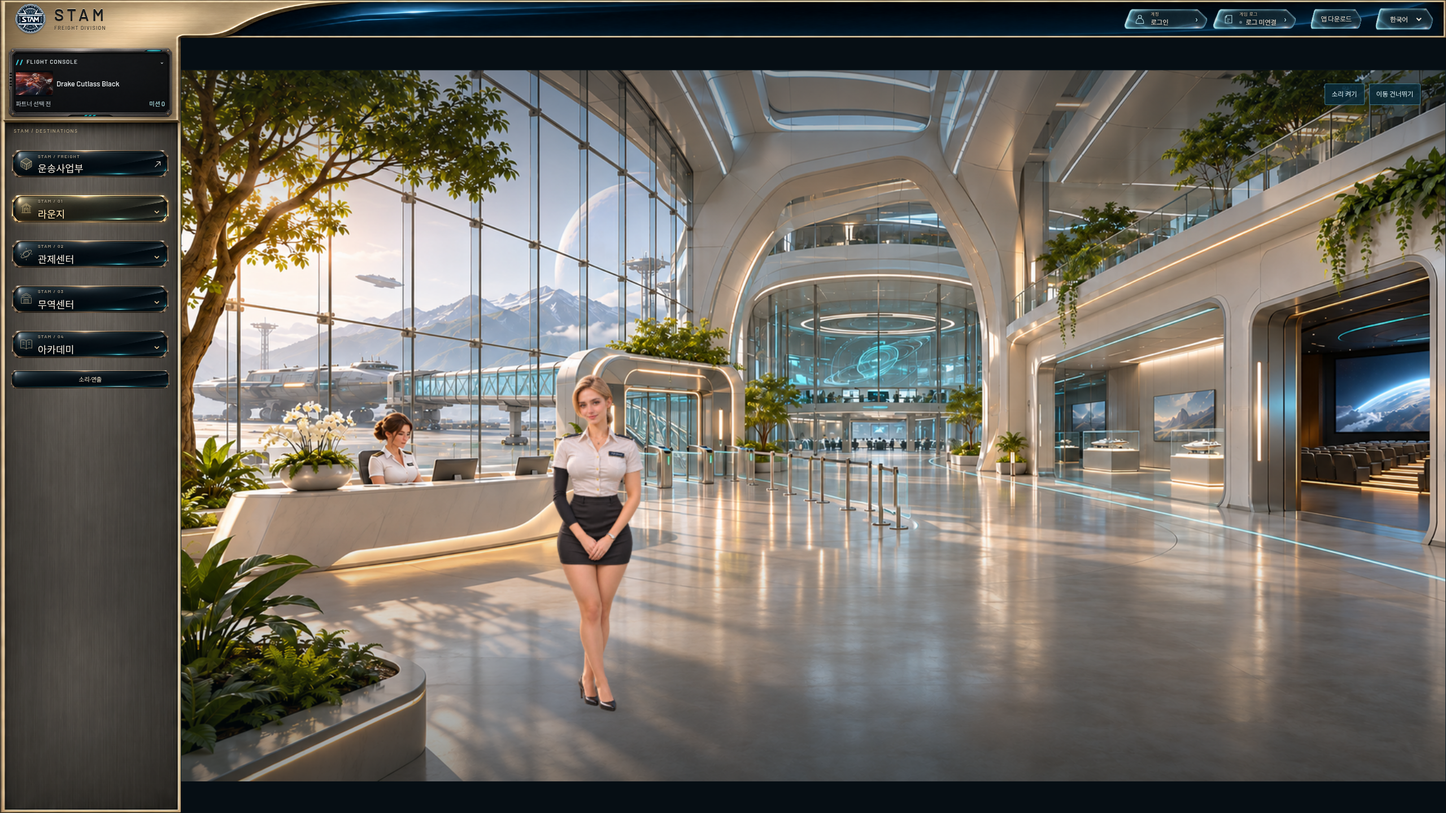
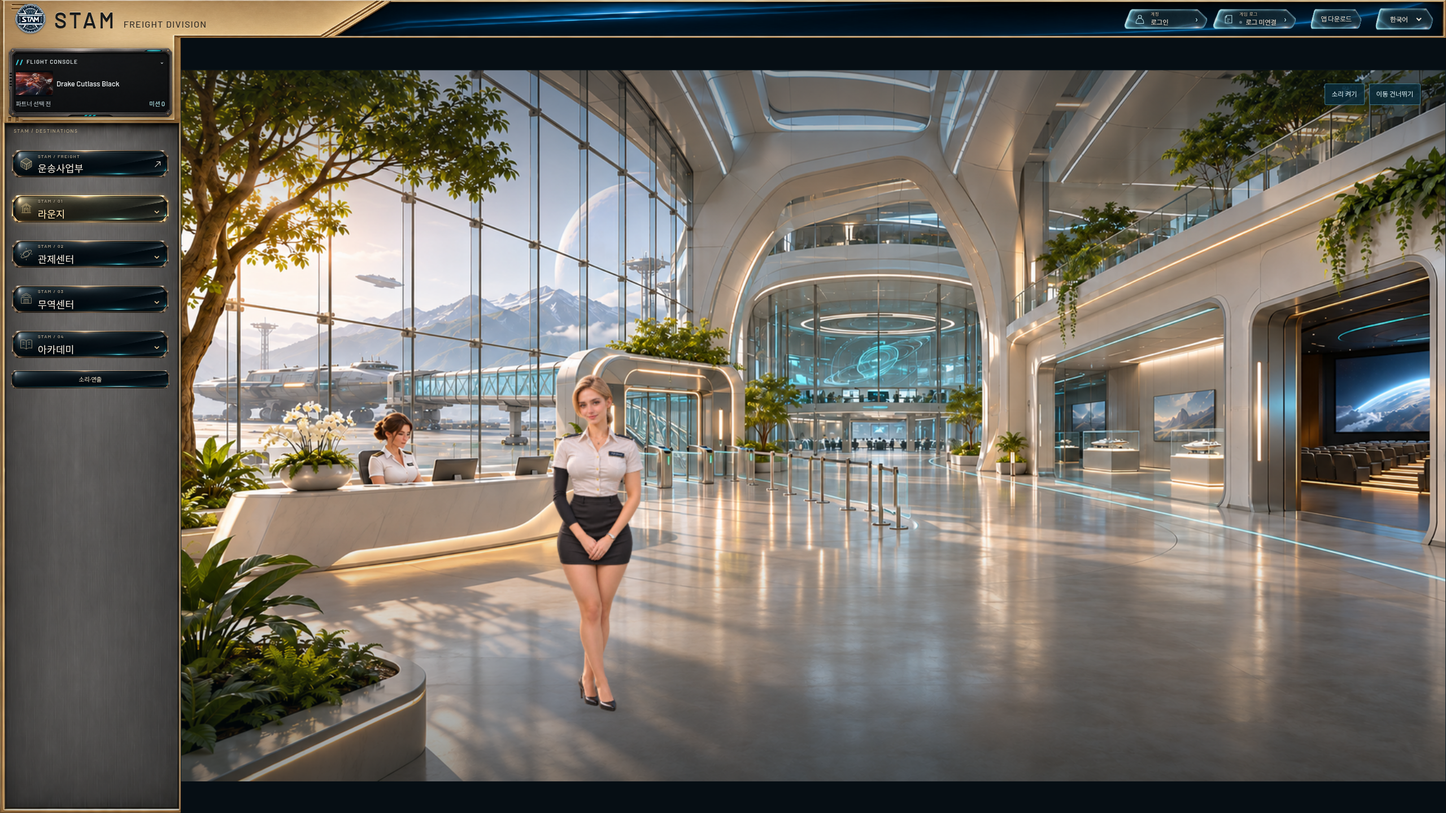
Extend champagne housing with straight machined edge and inline brand

diff --git a/apps/control-room/src/black-gold-shell.css b/apps/control-room/src/black-gold-shell.css
@@ -46,8 +46,8 @@
 .shell-material{position:absolute;inset:0;z-index:-1;pointer-events:none;overflow:hidden}
 .shell-piece{position:absolute;display:block;overflow:hidden}
 .shell-join{left:0;top:0;width:var(--shell-sidebar-width);height:67px}
-.shell-sweep{left:var(--shell-sidebar-width);top:0;width:320px;height:67px}
-.shell-top{left:calc(var(--shell-sidebar-width) + 320px);right:4px;top:0;width:calc(100% - var(--shell-sidebar-width) - 324px);height:67px}
+.shell-sweep{left:var(--shell-sidebar-width);top:0;width:400px;height:67px}
+.shell-top{left:calc(var(--shell-sidebar-width) + 400px);right:4px;top:0;width:calc(100% - var(--shell-sidebar-width) - 404px);height:67px}
 .shell-top-end{right:0;top:0;width:4px;height:67px}
 .shell-connector{left:0;top:67px;width:var(--shell-sidebar-width);height:var(--shell-connector-height,164px)}
 .shell-side{left:0;top:calc(67px + var(--shell-connector-height,164px));width:var(--shell-sidebar-width);height:max(0px,calc(100% - 73px - var(--shell-connector-height,164px)))}
@@ -56,8 +56,8 @@
 /* Live Barlow lettering stays sharp at any scale on the gold casting. */
 .space-experience .space-topbar .room-brand{gap:12px;text-decoration:none}
 .space-experience .space-topbar .brand-emblem{width:60px;height:60px;flex:none;filter:contrast(1.12) drop-shadow(0 1px 1px #0005)}
-.space-experience .space-topbar .brand-wordmark{font:500 29px/1 BarlowAirReview,SUIT,sans-serif;letter-spacing:.2em;color:#171a1c;text-shadow:0 -1px 0 #fff4d9b3,0 1px 0 #080b0e,0 2px 1px #33271c55}
-.space-experience .space-topbar .brand-wordmark small{margin-top:5px;font:500 9px/1.4 BarlowAirReview,SUIT,sans-serif;letter-spacing:.14em;color:#342b20;text-shadow:0 1px 0 #fff4d970}
+.space-experience .space-topbar .brand-wordmark{display:flex;align-items:baseline;gap:12px;white-space:nowrap;font:500 38px/1 BarlowAirReview,SUIT,sans-serif;letter-spacing:.12em;color:#171a1c;text-shadow:0 -1px 0 #fff4d9b3,0 1px 0 #080b0e,0 2px 1px #33271c55}
+.space-experience .space-topbar .brand-wordmark small{display:inline;margin-top:0;font:500 16px/1 BarlowAirReview,SUIT,sans-serif;letter-spacing:.08em;color:#342b20;text-shadow:0 1px 0 #fff4d970}
 .space-experience .space-main{grid-template-columns:var(--shell-sidebar-width) minmax(0,1fr)}
 .space-experience .space-sidebar{isolation:isolate;background:transparent;border:0;box-shadow:none;padding:16px 20px 18px}
 .space-sidebar:after{display:none}
@@ -77,8 +77,8 @@
  .space-experience>header.space-topbar{height:auto;padding:10px 12px;min-height:110px}
  .space-experience .space-topbar .room-brand{gap:8px}
  .space-experience .space-topbar .brand-emblem{width:40px;height:40px}
- .space-experience .space-topbar .brand-wordmark{font-size:22px;letter-spacing:.16em}
- .space-experience .space-topbar .brand-wordmark small{font-size:8px;letter-spacing:.08em;margin-top:4px}
+ .space-experience .space-topbar .brand-wordmark{font-size:27px;letter-spacing:.08em;gap:8px}
+ .space-experience .space-topbar .brand-wordmark small{font-size:10px;letter-spacing:.04em;margin-top:0}
  .space-experience .space-main{grid-template-columns:minmax(0,1fr)}
  .space-experience .space-overview{margin:0}
  .space-experience{padding:0;--shell-sidebar-width:clamp(248px,16.4vw,320px)}
@@ -86,13 +86,25 @@
  .shell-material{inset:0;mask-image:linear-gradient(to bottom,#000 96px,transparent 132px)}
  .shell-connector,.shell-side,.shell-side-end{display:none}
  .shell-piece{height:120px}
- .shell-join{width:150px}
- .shell-sweep{left:150px;width:110px}
- .shell-top{left:260px;right:4px;width:calc(100% - 264px)}
+ .shell-join{width:240px}
+ .shell-sweep{left:240px;width:110px}
+ .shell-top{left:350px;right:4px;width:max(0px,calc(100% - 354px))}
  .shell-top-end{width:4px}
  .space-sidebar :is(.space-group-button,.space-division-button){height:72px;min-height:72px}
  .space-sidebar :is(.space-group-button,.space-division-button) strong{font-size:17px}
  .space-sidebar .space-dock{background:#080f15;border:1px solid #c5ab7480;border-radius:0 0 14px 14px}
+}
+
+@media(min-width:761px) and (max-width:1000px){
+ .space-experience>header.space-topbar{padding-inline:12px;gap:12px}
+ .space-experience .space-topbar .room-brand{gap:8px}
+ .space-experience .space-topbar .brand-emblem{width:44px;height:44px}
+ .space-experience .space-topbar .brand-wordmark{font-size:30px;gap:8px;letter-spacing:.08em}
+ .space-experience .space-topbar .brand-wordmark small{font-size:12px;letter-spacing:.04em}
+ .space-experience .space-topbar .pilot-connections button{min-width:105px;padding-inline:8px;gap:5px}
+ .space-experience .space-topbar .space-download{padding-inline:8px}
+ .shell-sweep{width:200px}
+ .shell-top{left:calc(var(--shell-sidebar-width) + 200px);width:calc(100% - var(--shell-sidebar-width) - 204px)}
 }
 
 /* Guide playback occupies the same scene cell as the lounge, including while

diff --git a/apps/control-room/src/ShellMaterial.tsx b/apps/control-room/src/ShellMaterial.tsx
@@ -5,8 +5,8 @@ import accent from './assets/navigation/shell-gold-gunmetal.png';
  * The corner and edge heights stay fixed; the plain strips fill the existing
  * navigation area without setting the dimensions of the live scene.
  * A single casting spans the header and console surround. The header uses a
- * curved material boundary; the sidebar ends the housing in a straight step.
- * Curves stay in the chrome and never round or cover the scene aperture. */
+ * straight diagonal material boundary; the sidebar ends the housing in a straight step.
+ * The material stays in the chrome and never covers the scene aperture. */
 export function ShellMaterial(){
  const root=useRef<HTMLDivElement>(null);
  useLayoutEffect(()=>{
@@ -35,8 +35,8 @@ export function ShellMaterial(){
  },[]);
  const pieces=[
   ['join','0 0 216 102',accent],
-  ['sweep','216 0 384 102',accent],
-  ['top','600 0 930 102',accent],
+  ['sweep','216 0 504 102',accent],
+  ['top','720 0 810 102',accent],
   ['top-end','1530 0 6 102',accent],
   ['connector','0 102 216 300',accent],
   ['side','0 402 216 616',accent],

diff --git a/docs/cinematics/shell-layout-fix-20261118/HANDOFF.md b/docs/cinematics/shell-layout-fix-20261118/HANDOFF.md
@@ -4,21 +4,15 @@
 - 작업 브랜치: `cinematic/shell-layout-fix-20261118`.
 - 기능 담당이 최신 기능 변경을 보존하면서 통합한다. main·공통 인계 직접 병합/배포 없음.
 
-## 로고 가독성 후속
+## 최종 디자인 — 직선 사선·한 줄 브랜드·따뜻한 금색
 
-상단 원형 로고를 50→60px, STAM을 23→29px, FREIGHT DIVISION을 7→9px로 키웠다. 실제 텍스트에 Barlow500을 명시하고 STAM은 차콜 블랙과 얕은 돌출 그림자/상단 하이라이트, 부제는 흑갈색으로 표시한다. 글자를 이미지 자산으로 생성하지 않았고 원형 로고는 기존 자산에 대비 보정을 적용했다. 모바일은 각각40/22/8px. 상단바 높이와 본문/가이드 좌표는 유지한다.
+금색 이름판을 오른쪽으로 연장하고 곡선 대신 직선 사선으로 바꿨다. `STAM FREIGHT DIVISION`은 한 줄이며 STAM38px, 부제16px의 Barlow500 실제 텍스트다. 원형 로고60px·검은 입체 글씨를 유지했다. 761–1000px에서는44/30/12px로 줄여 버튼과 가로 넘침을 피하고, 모바일은40/27/10px 한 줄 브랜드에 기존 컨트롤을 줄바꿈한다. 데스크톱 상단67px와 장면 셀은 유지한다.
 
-타입/빌드 및 기존 브라우저12개 검증 재통과. 320/390/768/1024/1595px 로고 잘림·문서 넘침·Barlow 확인 결과는 `review/brand-checks.json`, 실제 화면은 `brand-desktop.png`, `brand-mobile.png`, `housing-final.png`. 이번 변경은 CSS 표시만이며 기능 변경은 없다.
+사용자가 회색/백금처럼 보인다고 지적한 시안은 사용하지 않는다. 최신 생성본은 따뜻한 샴페인 골드, 미세한 표면결, 사선 절삭면의 이중 가공 홈과 단차, 모서리의 짧은 가공 표시를 포함한다. 최종 원본 `/workspace/generated_images/exec-b70798fc-6552-40a3-8128-0aad3b63c08e.png`. 중간 시안과 기존 원본은 제작 폴더에 보존했다. `assets/provenance.json`에 최종 출처/해시/일곱 구간을 기록했다.
 
-## 최신 디자인 확정 — 상단 곡선 / 콘솔 아래 직선 단차
+상단의 직선 사선 구간 폭은400px(좁은 데스크톱200px), 나머지 유리만 가변 길이를 채운다. Sidebar 하우징은 콘솔 요약 하단과 메뉴 캡션 사이에서 직선 단차로 끝난다. 상세 콘솔은 기존처럼 메뉴 앞에 겹쳐 열린다. ResizeObserver와 스크롤 이벤트는 해제 시 정리한다. 기존 A콘솔/D버튼과 기능 상태는 변경하지 않는다.
 
-상단 왼쪽에서 플라이트 콘솔 둘레까지 하나로 이어지는 두꺼운 샴페인 골드 하우징을 적용했다. 상단의 금속/청남색 유리 경계는 곡선이고, 사이드바에서는 플라이트 콘솔 바로 아래·운송사업부 버튼 위에서 수평 직선 단차로 끝난다. 그 아래는 건메탈이다. 별도 둥근 콘솔 받침 시안은 이번 자산으로 교체했다.
-
-최종 `shell-gold-gunmetal.png` 하나를 일곱 영역으로 나누어 사용한다. 상단의 곡선 구간 폭은 고정하고 오른쪽 유리만 남은 길이를 채운다. `ShellMaterial.tsx`의 ResizeObserver는 콘솔 요약 높이와 스크롤을 따라 단차를 요약 하단과 메뉴 캡션 사이에 맞춘다. 상세창은 기존처럼 메뉴 앞에 겹쳐 펼쳐지므로 하우징을 늘리거나 메뉴를 밀지 않는다. 관찰자/이벤트는 해제 시 정리하며 기능 상태나 본문 크기는 바꾸지 않는다. 760px 이하에서는 사이드 장식을 숨기고 상단 재질만 기존 반응형 바에 사용한다.
-
-기존 A 콘솔·D 버튼·Barlow/SUIT 글꼴과 본문/가이드 영상 좌표는 유지했다. 새 원본은 `/workspace/generated_images/exec-6dacd686-aad4-46b2-a917-2edb62bae12d.png`이며 출처/해시는 `assets/provenance.json`에 저장했다. 이전 clean 자산은 보존하지만 현재 셸에서 import하지 않는다.
-
-이번 수정 뒤 타입/생산 빌드, 기존 화면 검증 12개, 콘솔 접힘/펼침/스크롤/다시 접힘의 단차 검사 4개를 통과했다. `review/housing-final.png`, `housing-expanded.png`, `housing-checks.json` 및 기존 최종 캡처를 갱신했다. 아래 앱175개·루트282/283은 앞선 기하 수정 당시 검사 결과다.
+타입/빌드, 기존 브라우저12개, 하우징 단차4개 검증 통과. 320/390/768/1024/1595px 로고 잘림·문서 넘침·Barlow 확인은 `review/brand-checks.json`. 실제 화면은 `brand-desktop.png`, `brand-mobile.png`, `housing-final.png`, `housing-expanded.png`. 아래 전체 테스트 결과는 앞선 기하 수정 당시 기록이다.
 
 ## 문제와 수정
 

diff --git a/PROJECT_STATUS.md b/PROJECT_STATUS.md
@@ -1,3 +1,9 @@
+## 2026-11-18 연출 — 직선 사선·한 줄 브랜드·금색 가공 디테일 / PR #42 미배포
+
+같은 연출 브랜치에서 금색 하우징을 오른쪽으로 늘리고 곡선을 직선 사선으로 교체했다. STAM38px/FREIGHT DIVISION16px 한 줄 Barlow500, 모바일40/27/10px(로고/브랜드/부제). 백금처럼 보였던 중간 시안 대신 따뜻한 샴페인 골드와 사선의 이중 가공 홈·단차·모서리 표시를 가진 최종 에셋을 사용한다. 데스크톱 상단67px/본문·가이드 좌표 및 기능 보존. 좁은 화면 버튼 넘침 보정.
+
+타입·빌드, 브라우저12개/단차4개, 브랜드320–1595px 확인 통과. 인계·최종 출처/해시·실제 화면은 docs/cinematics/shell-layout-fix-20261118/. 기존 테스트 결과는 인계에 별도 유지. main·공통 인계 병합·배포 없음. 아래 기록은 이전 단계다.
+
 ## 2026-11-18 연출 — 금색 상단 로고 가독성 / PR #42 미배포
 
 같은 연출 브랜치에서 원형 로고60px(기존50px), STAM29px(기존23px), 부제9px(기존7px)로 확대했다. 글씨는 Barlow500 실제 텍스트이며 STAM은 검은색 얕은 입체 그림자/하이라이트, 부제는 흑갈색이다. 원형 로고는 기존 이미지의 대비만 보완했다. 모바일40/22/8px. 상단67px와 본문 좌표는 유지.
